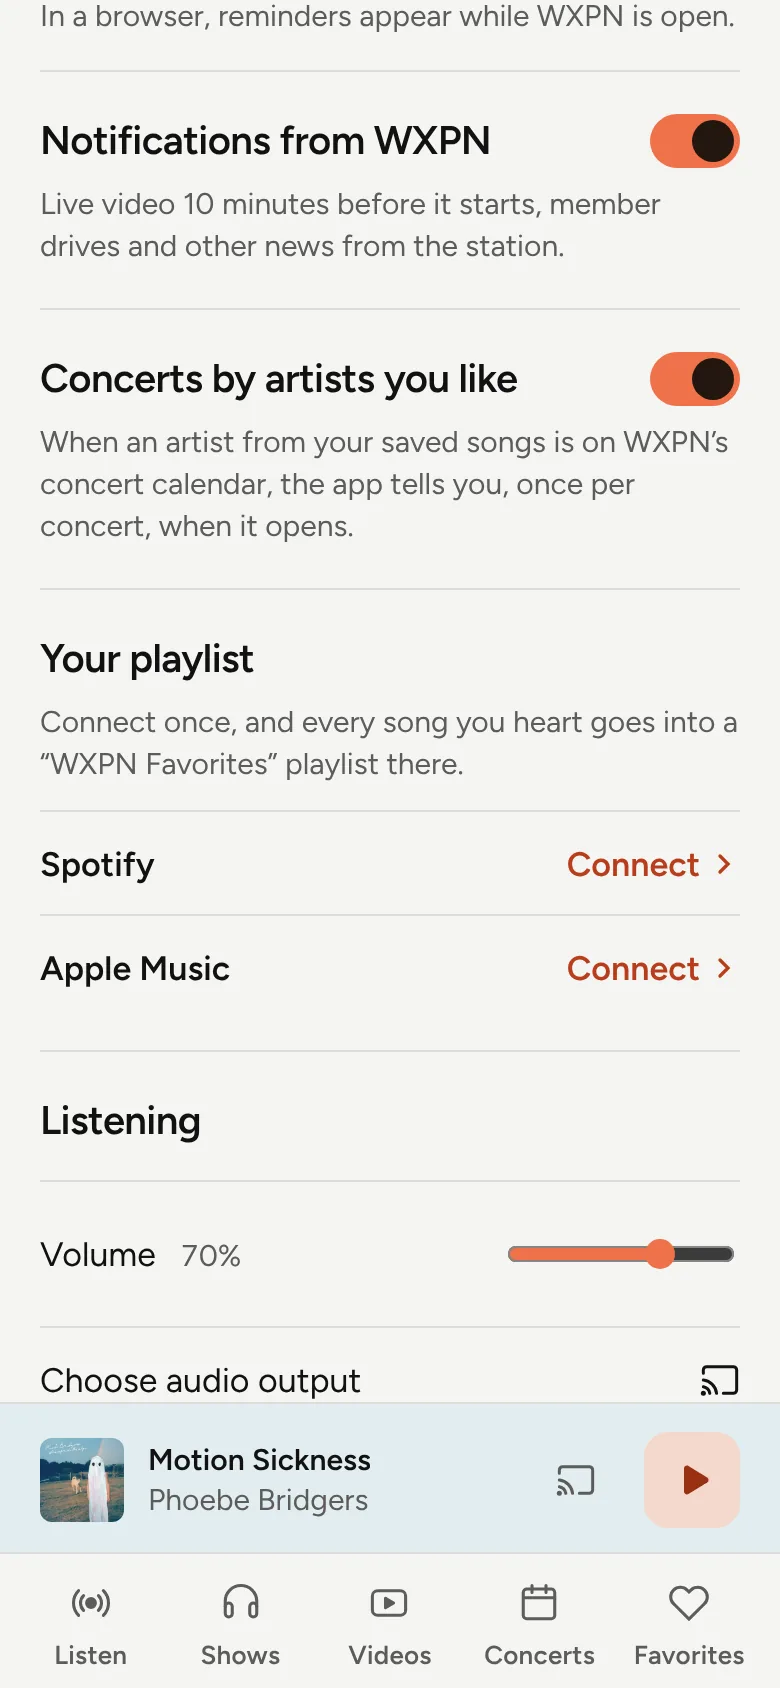
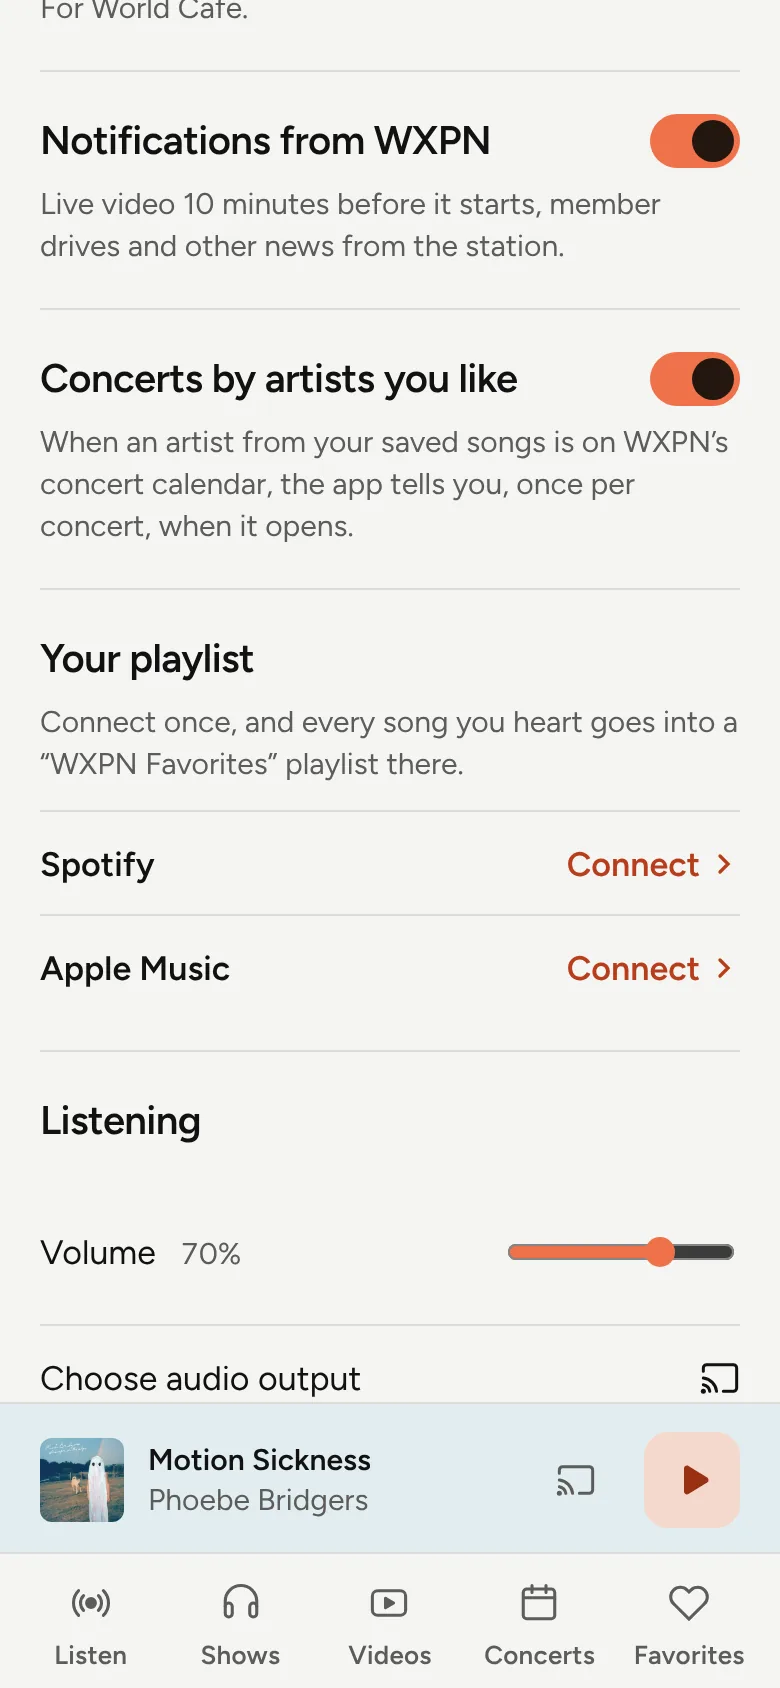
Welcome stays in the app; Settings titles read as titles; host portrait large
- The welcome's last step, the station's social accounts, is gone: it
  sent new listeners out of the app. The welcome ends on its last step
  that applies, and Follow shows' Next says Start listening when it's
  the only one. The accounts stay in Settings › Stay connected.
- In Settings the first row straight under a panel's title has no
  hairline of its own, so a title (Stay connected, Listening) no longer
  sits between two rules like one more row.
- A host's sheet: the portrait spans the sheet, 4:3, framed on the face,
  and the Share button is gone.

Claude-Session: https://claude.ai/code/session_01ShQkzQ4P55GtAki1K96Y5n

diff --git a/design/screens/index.html b/design/screens/index.html
@@ -394,29 +394,12 @@
                 width="390"
                 height="844"
                 loading="lazy"
-                alt="Welcome, step 3: Connect Spotify and Connect Apple Music buttons under a sample WXPN Favorites playlist."
+                alt="Welcome, last step: Connect Spotify and Connect Apple Music buttons under a sample WXPN Favorites playlist."
               />
             </div>
             <div class="caption">
               <h3>Your music</h3>
               <p>Connect Spotify or Apple Music so hearted songs build a playlist.</p>
-            </div>
-          </li>
-          <li class="shot">
-            <div class="device">
-              <img
-                data-shot="phone-welcome4"
-                width="390"
-                height="844"
-                loading="lazy"
-                alt="Welcome, last step: Follow WXPN and World Cafe, each name with Instagram, Facebook and YouTube icons, and a Start listening button."
-              />
-            </div>
-            <div class="caption">
-              <h3>Follow us</h3>
-              <p>
-                WXPN’s and World Cafe’s Instagram, Facebook and YouTube, as the welcome’s last step.
-              </p>
             </div>
           </li>
           <li class="shot">
@@ -549,7 +532,7 @@
                 width="390"
                 height="844"
                 loading="lazy"
-                alt="Raina Douris’s sheet, opened from World Cafe’s: her portrait with Share beside it, then On the air, World Cafe and Conversations from the World Cafe, each with its air times and a chevron, then her bio."
+                alt="Raina Douris’s sheet, opened from World Cafe’s: her portrait across the sheet, then On the air, World Cafe and Conversations from the World Cafe, each with its air times and a chevron, then her bio."
               />
             </div>
             <div class="caption">
@@ -1196,8 +1179,6 @@
         "phone-welcome2-light": "img/phone-welcome2-light.webp",
         "phone-welcome3-dark": "img/phone-welcome3-dark.webp",
         "phone-welcome3-light": "img/phone-welcome3-light.webp",
-        "phone-welcome4-light": "img/phone-welcome4-light.webp",
-        "phone-welcome4-dark": "img/phone-welcome4-dark.webp",
         "phone-stay-connected-light": "img/phone-stay-connected-light.webp",
         "phone-stay-connected-dark": "img/phone-stay-connected-dark.webp",
         "tablet-listen-dark": "img/tablet-listen-dark.webp",

diff --git a/components/Welcome.jsx b/components/Welcome.jsx
@@ -10,7 +10,6 @@ import { tap } from "../haptics.js";
 import { PLAYLIST_NAME } from "../music-services.js";
 import { connect } from "../playlist-sync.js";
 import { offeredServices } from "./PlaylistSync.jsx";
-import { SocialLinks } from "./SocialLinks.jsx";
 
 // The featured shows with a place on the FM schedule, so each one can also
 // be reminded about.
@@ -76,8 +75,8 @@ function PlaylistPreview() {
 }
 
 // First launch only: follow a few shows, turn on reminders for them,
-// connect Spotify or Apple Music so hearted songs build a playlist, and
-// finally the station's social accounts. A step with nothing to offer is
+// and connect Spotify or Apple Music so hearted songs build a playlist. No
+// step sends the listener out of the app. A step with nothing to offer is
 // left out (no reminders without a followed show, no playlist step when no
 // service is set up). Closing it any way counts as done; it never comes back.
 export function Welcome({ onDone }) {
@@ -87,7 +86,6 @@ export function Welcome({ onDone }) {
     "follow",
     ...(followed.length ? ["remind"] : []),
     ...(services.length ? ["music"] : []),
-    "social",
   ];
   const [stepName, setStepName] = useState("follow");
   const step = Math.max(0, steps.indexOf(stepName));
@@ -146,7 +144,7 @@ export function Welcome({ onDone }) {
               {counter}
               {followed.length ? (
                 <button className="primary-button" onClick={next}>
-                  Next
+                  {step + 1 >= steps.length ? "Start listening" : "Next"}
                 </button>
               ) : (
                 <button className="text-button" onClick={next}>
@@ -184,20 +182,6 @@ export function Welcome({ onDone }) {
               {counter}
               <button className="text-button" onClick={next}>
                 Not now
-              </button>
-            </div>
-          </>
-        ) : stepName === "social" ? (
-          <>
-            <h3 ref={heading} tabIndex={-1}>
-              Follow WXPN and World Cafe
-            </h3>
-            <p className="welcome-lede">These links are also in Settings › Stay connected.</p>
-            <SocialLinks />
-            <div className="welcome-actions">
-              {counter}
-              <button className="primary-button" onClick={onDone}>
-                Start listening
               </button>
             </div>
           </>

diff --git a/components/HostSheet.jsx b/components/HostSheet.jsx
@@ -1,5 +1,4 @@
-import { Art, Icon, Modal, shareText } from "../ui.jsx";
-import { showToast } from "../toast.js";
+import { Art, Icon, Modal } from "../ui.jsx";
 import { SHOWS } from "../catalog.js";
 import { deviceIsEastern } from "../time.js";
 import { foldName, hostsOfShow } from "../hosts.js";
@@ -17,18 +16,7 @@ export function HostSheet({ host, onClose, onOpenShow }) {
       <div className="detail-body">
         <div className="show-detail-hero host-hero">
           {host.img && <img src={host.img} alt="" />}
-          <div>
-            {when && <p className="host-when">{when}</p>}
-            <button
-              className="text-button host-share"
-              onClick={async () =>
-                showToast(await shareText(host.name, `${host.name} on WXPN`, host.page))
-              }
-            >
-              <Icon name="shareAlt" size={17} />
-              Share<span className="sr-only"> {host.name}</span>
-            </button>
-          </div>
+          {when && <p className="host-when">{when}</p>}
         </div>
         {shows.length > 0 && (
           <>

diff --git a/styles/show-page.css b/styles/show-page.css
@@ -171,22 +171,25 @@
 /* A host's sheet: their portrait (square, as on xpn.org) and line, the
    shows they host as rows that open them, then their bio in ink, as
    reading. */
-.host-hero {
-  align-items: flex-end;
+/* On their own page the host's portrait is the page's picture: across the
+   sheet, a little wider than tall, framed on the face, with their line
+   under it. */
+.host-sheet .host-hero {
+  flex-direction: column;
+  align-items: stretch;
+  gap: var(--space-3);
 }
-.host-hero > img {
-  width: 120px;
-  height: 120px;
-  border-radius: var(--radius-s);
-}
-.host-share {
-  gap: var(--space-2);
-  color: var(--text);
+.host-sheet .host-hero > img {
+  width: 100%;
+  height: auto;
+  aspect-ratio: 4 / 3;
+  object-position: 50% 25%;
+  border-radius: var(--radius-m);
 }
 .host-hero p.host-when {
   color: var(--text);
   font-size: var(--text-body);
-  margin: 0 0 var(--space-3);
+  margin: 0;
 }
 .host-shows {
   list-style: none;

diff --git a/styles/settings.css b/styles/settings.css
@@ -66,6 +66,12 @@
 .settings-panel > :is(h2, .section-heading) + :is(.setting-row, .setting-choice, .alert-row) {
   margin-top: var(--space-2);
 }
+/* A title reads as a title, not as one more row: the first row straight
+   under it has no hairline of its own (Stay connected, Listening). */
+.settings-panel > :is(h2, .section-heading) + :is(.setting-row, .setting-choice, .alert-row),
+.settings-panel > :is(h2, .section-heading) + .social-links > .social-row:first-child {
+  border-top: 0;
+}
 .alarm-time {
   display: flex;
   flex-direction: column;
